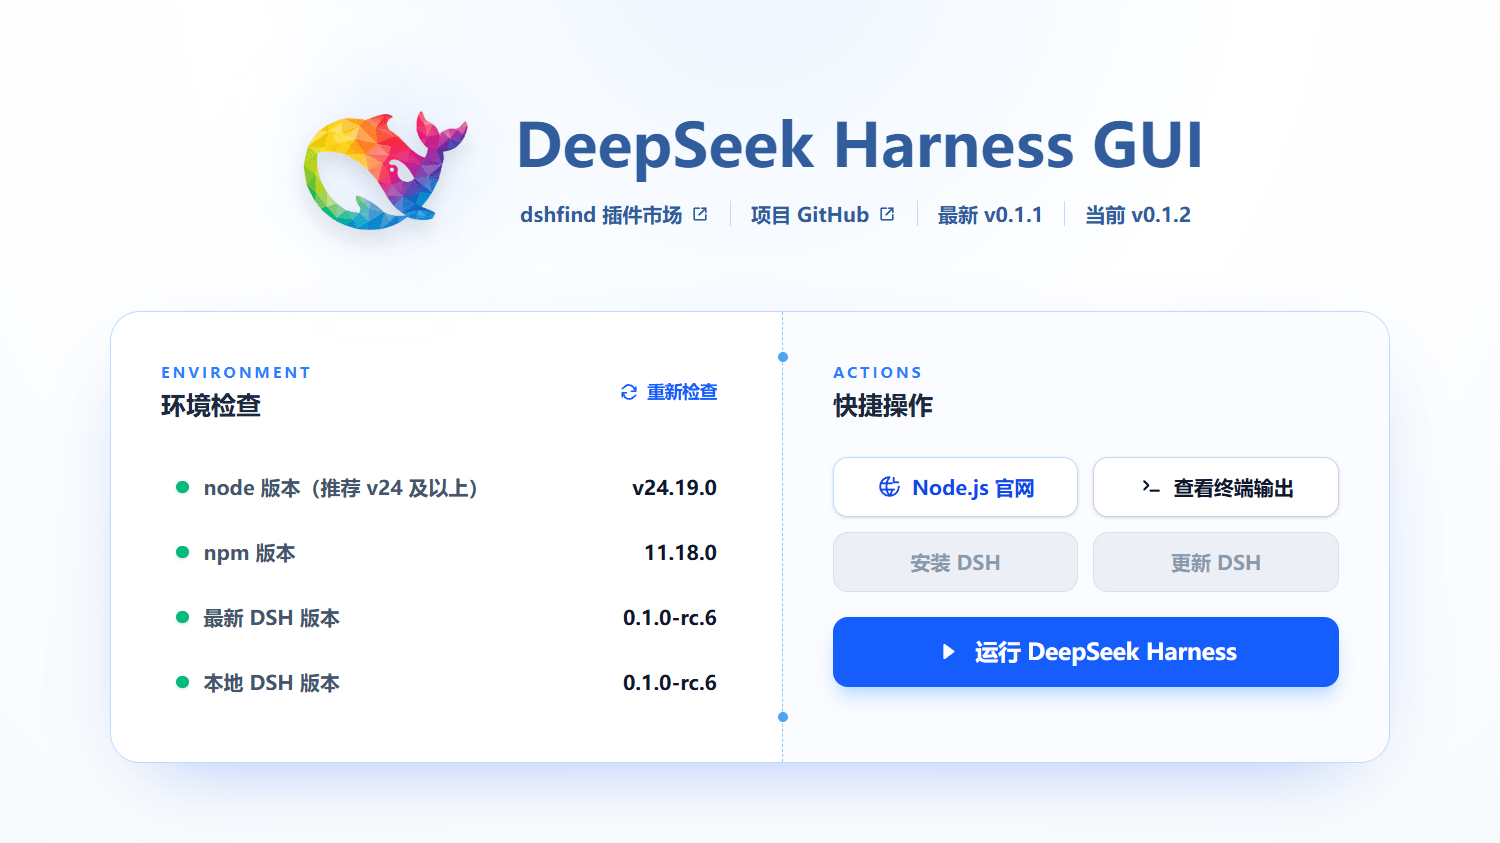
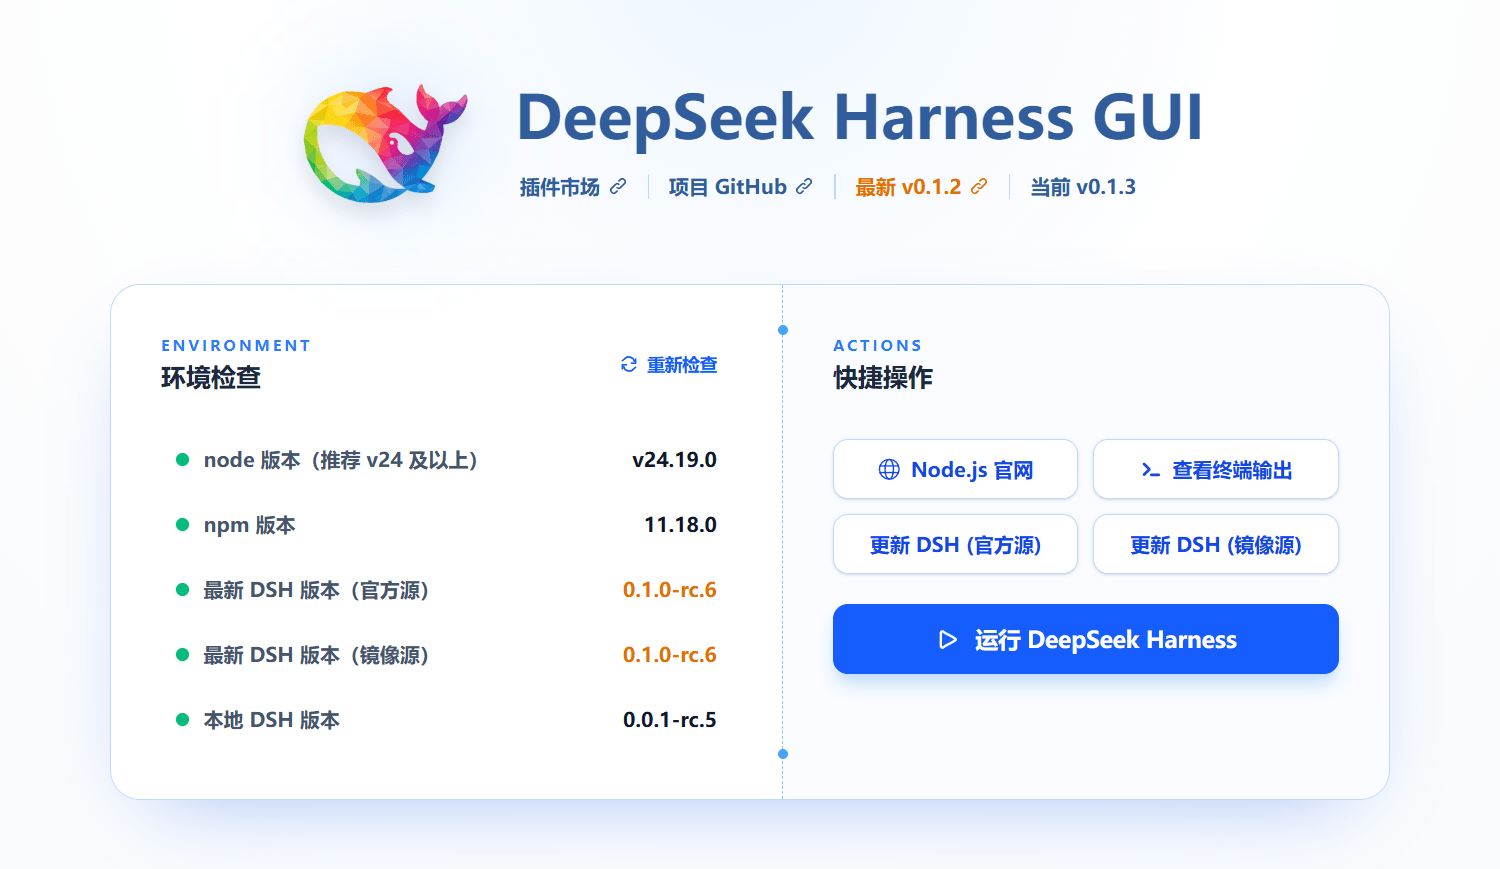
chore: update readme

diff --git a/README.md b/README.md
@@ -1,6 +1,6 @@
 # DeepSeek Harness GUI
 
-**超 级 轻 量 的 deepseek harness 桌面端应用，安装包只要 3 MB，便携版只要 9 MB！**
+**超 级 轻 量 的 deepseek harness 桌面端应用，安装包只要 2 MB，便携版只要 11 MB！**
 
 ---
 
@@ -14,10 +14,11 @@
 ## 介绍
 
 - 本项目是基于 Tauri 构建的 [deepseek-harness](https://github.com/deepseek-ai/deepseek-harness) 轻量启动器，保留原始 DSH 功能，提供桌面版 APP 体验
-- 适配文件下载、图片拖拽、剪贴板等操作
-- 支持将应用最小化到通知栏
+- 适配文件下载、图片拖拽、剪贴板等操作，支持最小化到通知栏
 - 支持 Ctrl+滚轮 或 Ctrl +/- 调节页面缩放
-- 本项目使用 worker 模式管理 DSH，支持应用中安装/更新 DSH
+- 同步 DSH 的日间/夜间/系统主题切换
+- 支持在应用中安装或更新 DSH，可选择官方源(npmjs)或镜像源(npmmirror)
+- 本项目使用 worker 模式管理 DSH，不影响 DSH 的任何设定
 - 只要官方启动命令不变，本项目就能持续使用
 
 ## 日志
